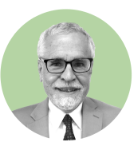
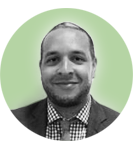
Replace Cressman with Faison

diff --git a/_data/task-force.js b/_data/task-force.js
@@ -70,7 +70,7 @@ module.exports = [{
       color: 'blue',
     }, {
       title: 'Town Manager',
-      name: 'David Cressman',
+      name: 'Austin Faison',
       municipalityName: 'Winthrop',
       color: 'green',
 }];
